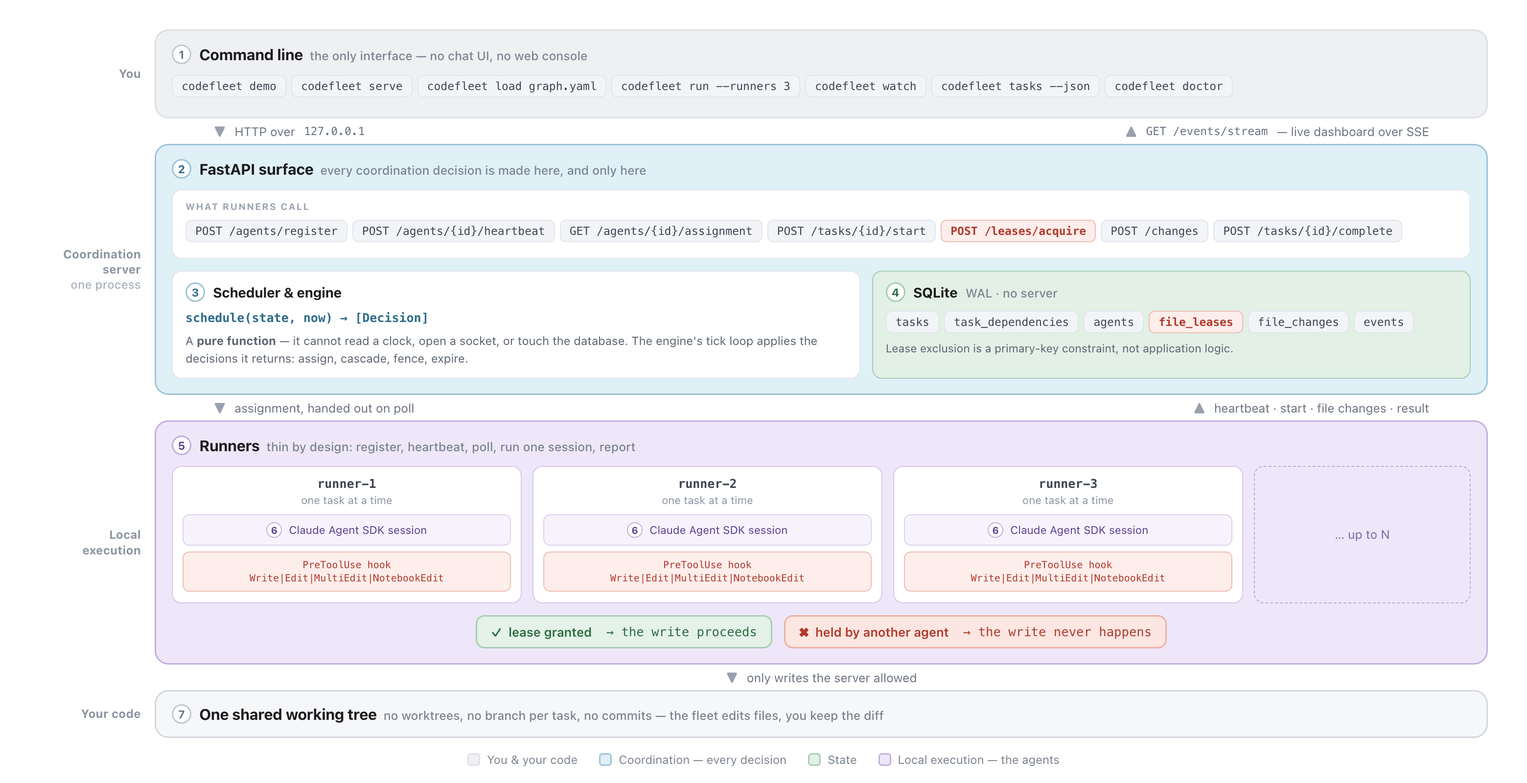
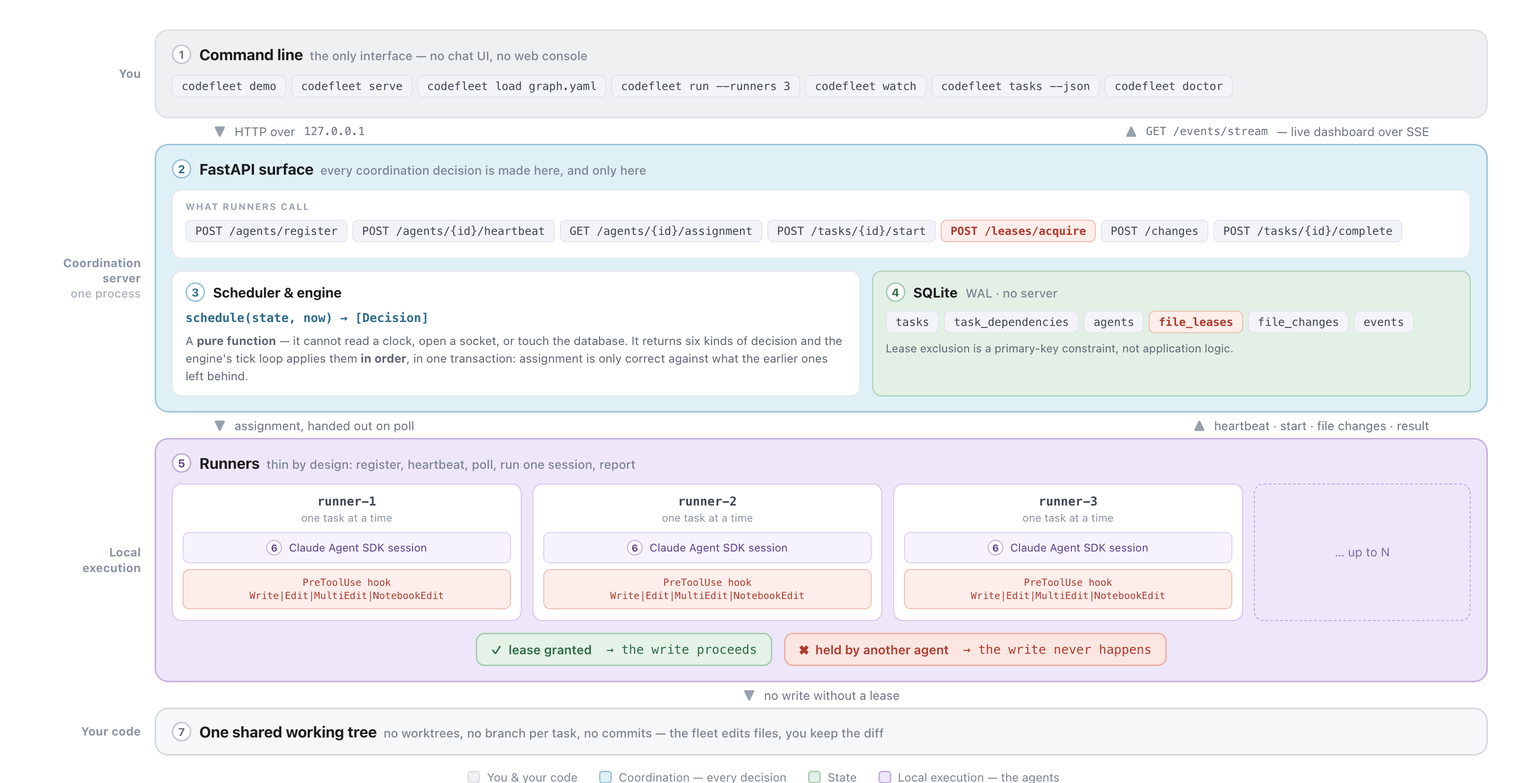
Say the demo collision is staged, and fix three wrong claims
An outside review read the four artifacts against the code and the SDK docs.
Five things did not survive it.

The demo collision was described as a good-faith mis-guess in the README, the
spec, the post and a diagram. It is not: T4's prompt orders the agent to touch
api.py first and T4's file_scope omits api.py. Anyone who opens demo-tasks.yaml
sees that immediately. Staging it is the honest and more interesting claim --
a declared scope is written before anyone reads the code, so it can only tell
the scheduler what to try. Even staged the veto fires in about four runs in
five, because the agent is free to reorder, and that is the point rather than
a caveat about it.

Bash was excluded "because gating it would mean parsing arbitrary shell".
Claude Code ships a sandboxed Bash that confines writes to the working tree at
the OS level, through the same Edit rules used here and reachable as
ClaudeAgentOptions.sandbox. No shell parsing. The conclusion survives -- a
sandbox rule is fixed at session construction and a lease is not, so it can say
"this tree" and never "this file, right now, belongs to runner-2" -- but the
stated reason was wrong.

Two vendor claims were stale or false. A PreToolUse hook that misses its
deadline does not stop the turn: the docs say the tool is skipped, the model is
told, and the turn continues. And skills= does not flip setting_sources back on
when the caller passed it explicitly; it only fills in a default when unset.
[…]

Changed region(s): [[0.0622, 0.4062, 0.9949, 1.0], [0.0311, 0.3125, 0.0933, 0.375], [0.0622, 0.6875, 0.0933, 0.75]]

diff --git a/docs/how-it-works.html b/docs/how-it-works.html
@@ -159,8 +159,8 @@
 
     <div class="note">
       <b>T3 and T4 declare different files</b>, so the scheduler will run them at the same time —
-      correctly, by its own rules. Declared scope is a guess someone wrote before the agent read
-      the code.
+      correctly, by its own rules. T4's prompt then orders it to touch <span class="m">api.py</span>
+      first: the collision is staged, because declared scope is written before anyone reads the code.
     </div>
 
     <div class="foot">Written as YAML, or posted to <span class="m">/tasks</span></div>
@@ -179,7 +179,7 @@
     <div class="server">
       <div class="stitle">Coordination server</div>
       <div class="ssub">schedule(state, now) &rarr; [Decision]</div>
-      <div class="ssub" style="color:#a8afba">assigns · cascades · fences · leases</div>
+      <div class="ssub" style="color:#a8afba">six decisions, applied in order</div>
     </div>
 
     <div class="card" style="margin-top:11px">
@@ -231,7 +231,8 @@
     <div class="card">
       <div class="clabel">What happens next</div>
       <div class="after"><div class="tick">&#8594;</div>
-        <div>The agent is told who holds the file and stops cleanly.</div></div>
+        <div>The write is refused. The agent is told who holds the file &mdash; stopping is the
+        model cooperating.</div></div>
       <div class="after"><div class="tick">&#8594;</div>
         <div>T4 is requeued with <span class="m">api.py</span> folded into its scope.</div></div>
       <div class="after"><div class="tick">&#10003;</div>

diff --git a/docs/architecture.html b/docs/architecture.html
@@ -130,7 +130,8 @@
         <div class="m" style="font-size:12.5px;color:#2d6c8a;font-weight:600">schedule(state, now) &rarr; [Decision]</div>
         <div style="font-size:12px;line-height:1.5;color:#5c6470;margin-top:7px">
           A <b>pure function</b> — it cannot read a clock, open a socket, or touch the database.
-          The engine's tick loop applies the decisions it returns: assign, cascade, fence, expire.
+          It returns six kinds of decision and the engine's tick loop applies them <b>in order</b>,
+          in one transaction: assignment is only correct against what the earlier ones left behind.
         </div>
       </div>
       <div class="card" style="background:var(--green-f);border-color:var(--green-b)">
@@ -186,7 +187,7 @@
 </div>
 
 <div class="conn"><div></div><div class="legs h9" style="justify-content:center">
-  <div class="leg"><span class="glyph">&#9660;</span> only writes the server allowed</div>
+  <div class="leg"><span class="glyph">&#9660;</span> no write without a lease</div>
 </div></div>
 
 <!-- ============ TREE ============ -->

diff --git a/src/codefleet/session.py b/src/codefleet/session.py
@@ -59,8 +59,11 @@ MAX_BUFFER_SIZE = 32 * 1024 * 1024
 #
 # Bash is absent on purpose, and so is Task. A shell command writes files
 # without ever handing a path to a hook — `sed -i`, a redirect, a formatter, a
-# codegen script, `python -c` — so gating it would mean parsing arbitrary shell,
-# which is not a boundary anyone should trust; Task is excluded because a
+# codegen script, `python -c` — so the write takes no lease and lands in no
+# file_changes row. Claude Code's sandboxed Bash would confine those writes to
+# the tree at the OS level (ClaudeAgentOptions.sandbox), but a sandbox rule is
+# fixed at session construction and a lease is not: it can say "this tree" and
+# never "this file, right now, belongs to runner-2". Task is excluded because a
 # subagent would get its own tool set and take Bash with it. The cost is real:
 # an agent cannot run the test suite or any other command from inside a task.
 # That is the price of the lease being the only way a file changes.
@@ -260,7 +263,12 @@ def allow_response() -> HookJSONOutput:
 
 
 def deny_response(reason: str) -> HookJSONOutput:
-    """The exact shape the CLI accepts as a veto. Verified against a live run."""
+    """The exact shape the CLI accepts as a veto.
+
+    Matches the `PreToolUse` hook output documented for the SDK, and is exercised
+    end to end by the live tier (`tests/live/test_demo_live.py`). Note there is no
+    `continue_: false` here: this stops the tool call, not the session.
+    """
     return {
         "hookSpecificOutput": {
             "hookEventName": "PreToolUse",
@@ -574,9 +582,9 @@ def build_options(
 
     `setting_sources=[]` is what makes the run hermetic: the SDK default loads
     the host user's `~/.claude` settings, agents, skills and CLAUDE.md, so
-    without it the same demo behaves differently on every machine. Note that
-    setting `skills=` silently flips this back on — if skills are ever enabled
-    here, `setting_sources` has to be passed again in the same call.
+    without it the same demo behaves differently on every machine. `skills=`
+    defaults `setting_sources` to `["user", "project"]` only when the caller
+    left it unset, so passing `[]` here explicitly keeps it closed either way.
 
     `permission_mode="dontAsk"` is the posture, and it is chosen over
     `bypassPermissions` deliberately. Both stop an unattended runner from

diff --git a/tests/unit/test_docs.py b/tests/unit/test_docs.py
@@ -119,6 +119,19 @@ def test_the_acceptedits_rejection_rests_on_what_the_sdk_documents() -> None:
     assert "withdrawn" in SPEC
 
 
+def test_neither_document_says_a_denied_agent_stops_cleanly() -> None:
+    """The deny stops the tool call. Stopping the session is the model cooperating.
+
+    `deny_response` returns no `continue_: false`, so nothing in the mechanism ends
+    the turn — a document that says otherwise describes a guarantee we do not have.
+    """
+    from codefleet.session import deny_response
+
+    assert "continue" not in str(deny_response("blocked")).replace("permissionDecision", "")
+    for document in (README, SPEC):
+        assert "stops cleanly" not in document
+
+
 @pytest.mark.parametrize("tool", SESSION_TOOLS)
 def test_both_documents_name_the_tools_the_session_may_use(tool: str) -> None:
     assert tool in README

diff --git a/SPEC.md b/SPEC.md
@@ -31,9 +31,10 @@ already in the working tree.
 
 CodeFleet handles (1) with a dependency graph the server evaluates on every state change, and (2)
 with a per-file lease checked *before* the write happens, via a `PreToolUse` hook that can return
-`permissionDecision: "deny"`. The denied agent is told which agent holds the file, stops cleanly,
-and its task is requeued with a widened file scope so the scheduler will not co-schedule the two
-again. The write never lands. That is conflict prevention, not conflict detection.
+`permissionDecision: "deny"`. The write never lands — that part is the CLI, not the model's
+cooperation. The denied agent is told which agent holds the file and instructed to stop, and its task
+is requeued with a widened file scope so the scheduler will not co-schedule the two again. That is
+conflict prevention, not conflict detection.
 
 The secondary goal is legibility. Every state change is one row in one append-only events table.
 That table drives an SSE stream, a terminal dashboard, and a replayable record of any run. If you
@@ -745,9 +746,12 @@ whether a write is safe.** The mode decides whether a *tool* may run; only the h
 this agent holds this file. So a bug in the hook is still a bug in the one thing standing between an
 agent and a file another agent owns. That is why it fails *closed* on an unreachable server, why
 path normalization rejects anything resolving outside the workdir, and why the hook body does
-nothing but one loopback HTTP call with a hard timeout — a `PreToolUse` hook that misses its
-deadline does not fall through to the tool; the CLI stops the turn with "the tool call was not
-executed", which would look like a mysterious agent failure.
+nothing but one loopback HTTP call with a hard timeout. A `PreToolUse` hook that misses its deadline
+does not fall through to the tool — the docs are explicit that "Claude Code doesn't run the tool
+call, Claude receives a tool result stating the hook didn't respond before its timeout, and the turn
+continues." Fail-closed either way, but the model is then reasoning about an infrastructure error it
+cannot act on, so the hook's own 10s deadline (`REQUEST_TIMEOUT_S`) fires first and turns it into an
+explicit deny with a reason worth reading.
 
 **The session is given an explicit tool set, and `Bash` is not in it.** `tools=` is pinned to `Read`,
 `Write`, `Edit`, `MultiEdit`, `NotebookEdit`, `Glob`, `Grep` — the four write tools the matcher
@@ -760,10 +764,18 @@ absent and unapproved, which is the difference between a permission list and a b
 codegen script, a test run that rewrites a fixture — and none of it reaches a `PreToolUse` matcher
 keyed on tool names. Such a write takes no lease and lands in no `file_changes` row, so the veto
 would hold for structured edits and silently not hold for shell ones, which is worse than not holding
-at all: the ledger would under-report what the fleet touched while reading as complete. Gating `Bash`
-instead would mean deciding which paths an arbitrary shell command writes, which is parsing arbitrary
-shell, and being wrong once is exactly the collision this system exists to prevent. `Task` is out for
-the same reason at one remove: a subagent gets its own tool set and would take `Bash` back with it.
+at all: the ledger would under-report what the fleet touched while reading as complete.
+
+The obvious objection is that this is a solved problem: Claude Code ships a sandboxed `Bash` —
+Seatbelt on macOS, bubblewrap on Linux — that confines a command and every child process it spawns to
+the working directory at the OS level, configured through the same `Edit` allow/deny rules used here
+and exposed as `ClaudeAgentOptions.sandbox`. No shell parsing is involved. It is the right tool for
+bounding blast radius, and it does not solve this problem, because the boundary needed here is not
+*this tree* but *this file, right now, belongs to runner-2*. A sandbox policy is fixed when the
+session is constructed; the pinned SDK's client exposes `set_permission_mode` and `set_model` and
+nothing that moves a filesystem rule mid-session. A sandboxed shell write would stay inside the tree,
+take no lease, and land in no `file_changes` row — the same hole, in a smaller box. `Task` is out for
+a related reason at one remove: a subagent gets its own tool set and would take `Bash` back with it.
 
 The cost is real and is not hidden: **an agent cannot run anything inside a task** — not the tests it
 just wrote, not a linter, not `git`. Tasks have to be expressible as edits, and verification is
@@ -780,10 +792,11 @@ Three smaller decisions fall out of this:
   settings, agents, skills, and `CLAUDE.md` — so the tool, agent and skill set in scope is whatever
   that particular developer happens to have installed, and a demo that does not pin it behaves
   differently on every reader's laptop. With `[]` the session sees the CLI built-ins and nothing
-  else, and the `init` frame proves which (§6.4). Note the trap: setting `skills=` silently flips
-  `setting_sources` back to
-  `["user", "project"]`, so if skills are ever enabled, `setting_sources` must be passed explicitly
-  in the same call.
+  else, and the `init` frame proves which (§6.4). Note how `skills=` interacts with this: it defaults
+  `setting_sources` to `["user", "project"]` *only when the caller left it unset*
+  (`subprocess_cli.py`: `if setting_sources is None`). Because this call always passes `[]`
+  explicitly, enabling skills here would not widen it — but a caller who relies on the default and
+  then adds `skills=` gets the host's settings back without asking.
 - **`strict_mcp_config=True`.** `setting_sources=[]` gates settings *files* and nothing more; MCP
   servers load on their own path, and the SDK's default is to take every one it can find. The
   workdir is someone else's checkout — untrusted input by construction — so a `.mcp.json` sitting in
@@ -818,11 +831,14 @@ is mitigated three ways: the veto arrives at the *first* write to the contended 
 agent stops early rather than late; the denied path is folded back into `file_scope` so the retry is
 scheduled against reality (§4.5 step 8); and `max_attempts` bounds the total wasted work.
 
-This is exactly what the demo graph exercises. T3 (`linkstash/api.py`) and T4 (`linkstash/middleware.py`)
-declare disjoint scopes, so the scheduler runs them together — correctly, by its own rules. But T4
-cannot finish without registering its middleware in `api.py`, which T3 holds. T4 is denied, backs
-off, and succeeds on retry once T3 releases. The declared scope was a good-faith guess and it was
-wrong; the lease is what made that safe.
+This is exactly what the demo graph stages, and stages deliberately. T3 (`linkstash/api.py`) and T4
+(`linkstash/middleware.py`) declare disjoint scopes, so the scheduler runs them together — correctly,
+by its own rules. T4's prompt then instructs the agent to register its middleware in `api.py` *before*
+writing `middleware.py`, while T4's declared scope names only `middleware.py`. T4 is denied, backs
+off, and succeeds on retry once T3 releases. The staging is in the ordering, not the outcome: an
+earlier wording that made the collision likely rather than ordered produced the veto in three of six
+recorded live runs, and the shipped wording in four of five. The agent is free to reorder, which is
+the reason a declared scope cannot be the lock.
 
 The point of `file_scope` is that the *scheduler* reads it. A declared scope that only ever reaches
 the agent as a sentence in its prompt is documentation, not coordination: it cannot stop two tasks
@@ -880,13 +896,14 @@ coordination is externalized and legible.
   timeout. This is the simpler thing that works; if the reaping proves unreliable, the upgrade path
   to `ClaudeSDKClient` is local to one module.
 - **Token accounting from `ResultMessage.model_usage`.** `ResultMessage.usage` is an untyped
-  passthrough of the *final* API call's usage plus an `iterations` array — measured at 136/82 tokens
-  in a session whose true totals were 657/94. `model_usage` is the typed, cumulative,
+  passthrough of the *final* API call's usage plus an `iterations` array, so in every session
+  measured here it reported a small fraction of what the session actually spent. `model_usage` is the
+  typed, cumulative,
   per-model record (`inputTokens`, `outputTokens`, `costUSD`), and its `costUSD` sum matches
   `total_cost_usd`. Also: the CLI emits one `AssistantMessage` per content block, all sharing a
   `message_id` and repeating the same `usage` dict, so summing per-message double-counts.
-- **`SystemMessage(subtype="thinking_tokens")` is dropped at the runner.** In a trivial three-turn
-  run, 21 of 32 messages were of that subtype. Persisting them would flood the events table the
+- **`SystemMessage(subtype="thinking_tokens")` is dropped at the runner.** They were the majority of
+  messages in every run measured here. Persisting them would flood the events table the
   dashboard reads, and the SDK's internal stream buffers only 100 messages — a slow consumer
   throttles the agent.
 - **`max_buffer_size` is raised above the 1 MiB default.** A single tool result containing a large
@@ -927,7 +944,7 @@ The questions a design like this has to answer, and how each was answered.
 | D18 | Is the CLI an HTTP client or does it touch the database? | HTTP client, exclusively. | A second writer is a second set of invariants. A CLI that writes to the store directly can leave state the server's own rules would never have produced, and the two disagree about what the fleet is doing. One writer, one set of invariants. |
 | D19 | Can revocation recall a write the hook has already authorized? | No, and the design says so rather than implying otherwise. | Fencing bumps an epoch; the runner learns about it on its next call. A `PreToolUse` hook that already returned *allow* has authorized a filesystem operation nothing can now intercept, so on the cancel, stale and deadline paths a write can land after its lease was released to another task. The fence is as fast as it can be and is still not synchronous with the tool call. Making it synchronous means a write path the server can invalidate mid-flight — per-attempt isolation, or a broker that revalidates the lease at write time — which is a different and larger system (see D12). Documented as a bounded hole in the recovery paths, not papered over. |
 | D20 | Does a requeue undo what the failed attempt already wrote? | No. Its leases are released and its edits stay. | Restoring the pre-attempt tree means knowing what the attempt changed and being sure nobody else has since touched it — in one shared tree with N live agents, neither holds. The honest consequence is that failed and cancelled attempts still influence the final checkout, and it is stated in the README rather than described as merely wasted work. This is the strongest argument for per-attempt isolation, and the reason D12 is a trade rather than a free choice. |
-| D21 | Is the lease an authorization boundary? | No. It is mutual exclusion only. | Acquisition asks whether another task holds the path, never whether this task should be touching it — any uncontended path in the tree is granted. Making declared scope authoritative would break the premise the design rests on: scope is a guess written before the agent read the code, and the demo turns on exactly that guess being wrong. So blast radius is bounded by the working tree, not by the task, and `file_scope` is documented as advisory everywhere it appears. An opt-in strict mode is the obvious next feature; shipping it off-by-default and unexercised would be worse than saying plainly that it does not exist yet. |
+| D21 | Is the lease an authorization boundary? | No. It is mutual exclusion only. | Acquisition asks whether another task holds the path, never whether this task should be touching it — any uncontended path in the tree is granted. Making declared scope authoritative would break the premise the design rests on: scope is written before the agent reads the code, and the demo stages exactly that gap. So blast radius is bounded by the working tree, not by the task, and `file_scope` is documented as advisory everywhere it appears. An opt-in strict mode is the obvious next feature; shipping it off-by-default and unexercised would be worse than saying plainly that it does not exist yet. |
 | D22 | What does `succeeded` mean? | The session ended cleanly and reported success. Not that the code works. | Nothing inside the coordination layer can distinguish an agent that solved the task from one that stopped early and said it had. That distinction has to come from outside, so `codefleet run --verify <command>` runs the caller's own checks over the tree once the fleet drains and its exit code decides the run's. Fleet-level rather than per-task on purpose: agents share one tree, so a suite run mid-flight fails on another agent's half-finished edit and blames the wrong task. Per-task verification needs per-task isolation. |
 
 ---

diff --git a/README.md b/README.md
@@ -28,7 +28,7 @@ npm, no separate Claude Code install, because `claude-agent-sdk` ships the CLI a
 
 `codefleet demo` copies `examples/demo-repo` to a scratch workspace, runs three agents over a
 five-task graph, and finishes by running that repo's own test suite. Your checkout is untouched. A
-run costs about $0.20 and takes under a minute.
+run costs about $0.12 and takes under a minute.
 
 **No API key, or don't want to spend anything:**
 
@@ -43,8 +43,8 @@ Free, deterministic, and what CI runs. If something looks wrong before you spend
 ## What you get
 
 One command, a task list, and as many agents as you want to run. When the fleet drains, every task's
-changes are in a single working tree, applied in dependency order, and you run the tests once. Nobody
-relayed a completion signal or assigned the next batch.
+changes are in a single working tree, applied in dependency order, and you run the tests once. You
+start it and read the diff.
 
 | | Doing this yourself | With CodeFleet |
 |---|---|---|
@@ -70,10 +70,13 @@ file.
 - **Runners are deliberately thin.** Register, heartbeat, poll for an assignment, run one session,
   report the result. They hold no queue, evaluate no dependencies, and decide nothing about who does
   what. All of that is server-side, in one place, where you can read it.
-- **The scheduler is a pure function.** `schedule(state, now) -> list[Decision]` takes a frozen
-  snapshot and returns what should happen. It cannot read a clock, open a socket, or touch the
-  database — the server applies what it returns. That is why its tests build state literally and need
-  no fixtures, no event loop, and no database.
+- **The scheduler returns an ordered list, and the order is the contract.**
+  `schedule(state, now) -> list[Decision]` hands back six kinds of decision that the server applies
+  top to bottom in one transaction, because step 5 — placing new work — is only correct against the
+  state steps 1–4 leave behind. A lease held by a runner that just went offline is released by the
+  same transaction, so assignment does not see that path as busy. Apply the list out of order, or
+  half of it, and you co-schedule two tasks onto the same file. Being pure is what makes that
+  testable in three lines with no database; being *ordered* is what makes it right.
 - **Leases are per file and lazy**, acquired at the first write rather than up front from a declared
   scope. A denial is an immediate veto, never a wait, so no agent ever holds one lease while waiting
   on another.
@@ -115,6 +118,7 @@ Two more obvious APIs were rejected first, each for a reason you can re-check ag
 | `can_use_tool` | Looks right — a permission callback the host controls. But it requires streaming-input mode, and it is *shadowed* by `permission_mode="bypassPermissions"` and by every whole-tool entry in `allowed_tools`. The SDK emits a `CanUseToolShadowedWarning` that points you at `PreToolUse` itself. |
 | `permission_mode="acceptEdits"` | It auto-accepts file edits, but leaves every other tool on the standard permission path, which prompts — and an unattended runner has nobody to answer a prompt. It also buys nothing back: the deny still has to arrive as a `PreToolUse` hook either way, since that is the only place the server's answer can reach a tool call before it runs. |
 | `permission_mode="bypassPermissions"` | Stops the prompting, and approves everything that reaches the permission step. The SDK docs say to use it *"with extreme caution"* — reasonably, since it means full system access. `dontAsk` buys the same freedom from prompts by denying what it wasn't told about instead of approving it. |
+| `permission_mode="auto"` | Also stops the prompting, by having *"a model classifier approve or deny permission prompts"*. Our tool surface is seven fixed names, so there is nothing here for a classifier to judge — and a lock whose boundary is a model's opinion is the thing this project exists not to build. |
 
 The session runs `permission_mode="dontAsk"` with `allowed_tools` naming those same seven tools.
 Nothing prompts, and anything that is *not* on the list — a tool from the target repo's own
@@ -128,10 +132,14 @@ loopback call with a hard timeout, why the session's tool set is an explicit all
 on it, and why a `.mcp.json` sitting in the target repository is ignored rather than loaded. A write
 the matcher never sees is a write the server never gets to veto.
 
-The demo graph exercises exactly this. T3 (`api.py`) and T4 (`middleware.py`) declare disjoint scopes,
-so the scheduler runs them together — correctly, by its own rules. But T4 cannot finish without
-registering its middleware in `api.py`, which T3 holds. The declaration was a good-faith guess and it
-was wrong. The lease is what made that safe.
+The demo graph stages exactly this, on purpose. T3 (`api.py`) and T4 (`middleware.py`) declare
+disjoint scopes, so the scheduler runs them together — correctly, by its own rules. But T4's prompt
+tells the agent to register its middleware in `api.py` *before* writing `middleware.py`, and T4's
+declared scope names only `middleware.py`. That is the shape of the mistake someone makes writing a
+file list before reading the code, and in a demo you have to schedule it: staged, the veto fires in
+four of the five recorded live runs; with the collision merely likely rather than ordered, it fired
+in three of six. The agent is free to reorder, which is the whole reason a declared scope cannot be
+the lock.
 
 `SPEC.md` has the rest: the data model, every coordination rule, the full HTTP API, and the
 alternatives that were considered and dropped.
@@ -183,14 +191,23 @@ have to import the SDK to reach it, and that test breaks.
   guarantee is not absolute across them.
 - **A green run is not a verified run.** A task succeeds when its session ends cleanly, which means
   the model stopped — not that what it wrote compiles. Pass `codefleet run --verify "pytest -q"` and
-  let the exit code decide; `codefleet demo` does this with the target repository's own suite.
+  let the exit code decide; `codefleet demo` does this with the target repository's own suite. That
+  command runs over a tree the agents just wrote, so it executes agent-authored code on your machine:
+  the no-shell rule below bounds what happens *during* a task, not what you choose to run after one.
+  Point the fleet at a checkout you would be willing to `git checkout -- .`.
 - **Agents cannot run commands.** The session gets exactly
-  `Read`/`Write`/`Edit`/`MultiEdit`/`NotebookEdit`/`Glob`/`Grep`. `Bash` is excluded because it is a
-  write path no tool-name matcher can see — a shell write would take no lease and appear in no ledger
-  row. The price is that a task cannot run the tests it just wrote, or a linter, or `git`.
+  `Read`/`Write`/`Edit`/`MultiEdit`/`NotebookEdit`/`Glob`/`Grep`. `Bash` is excluded because a shell
+  write takes no lease and lands in no ledger row, and no tool-name matcher can see it coming. Claude
+  Code does ship a sandboxed `Bash` that confines writes to the working tree at the OS level, which
+  bounds the blast radius — but a sandbox policy is fixed when the session starts and a lease is not,
+  so it cannot say *this file, right now, belongs to another runner*. The price is that a task cannot
+  run the tests it just wrote, or a linter, or `git`.
+- **The server has no authentication.** It binds `127.0.0.1` by default, and `codefleet serve --host
+  0.0.0.0` is one flag away from an unauthenticated write API whose task descriptions become agent
+  prompts. Keep it on loopback.
 
 Also: the lease is exclusivity, not authorization, so any uncontended path is granted; leases are per
-path, not per region; one machine, no authentication, no task planning, POSIX only.
+path, not per region; one machine, no task planning, POSIX only.
 
 ## License
 
